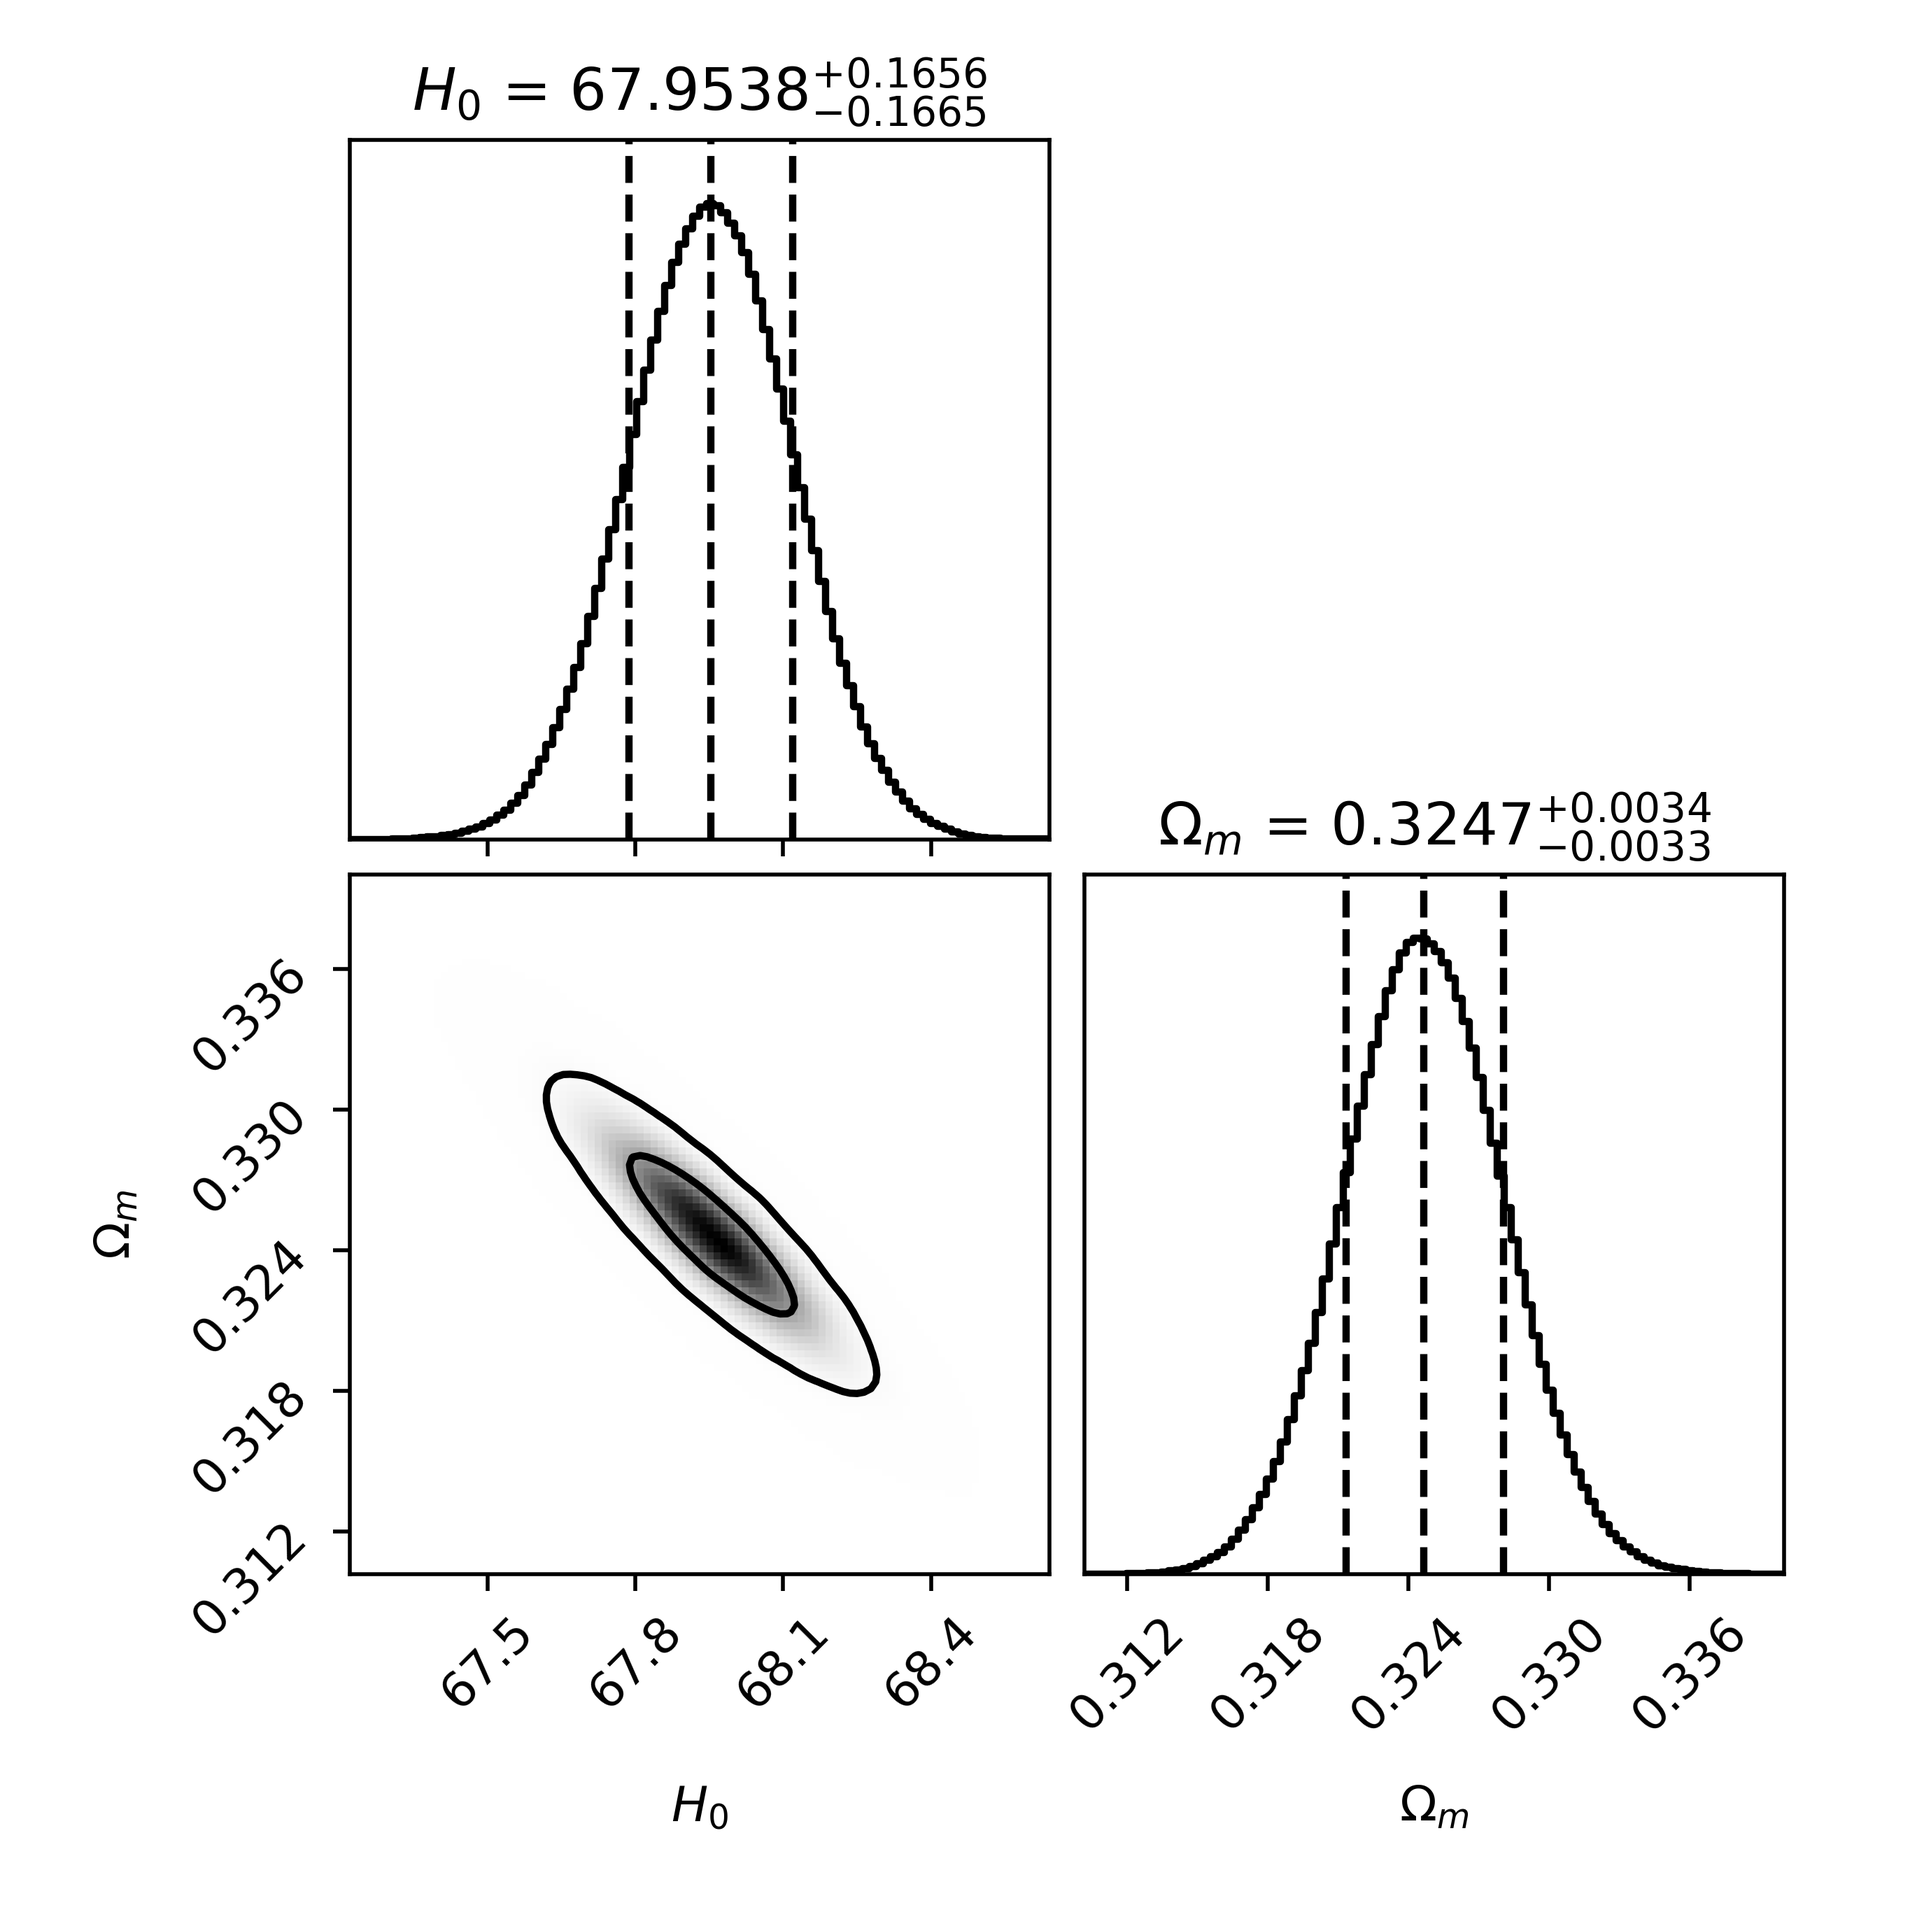
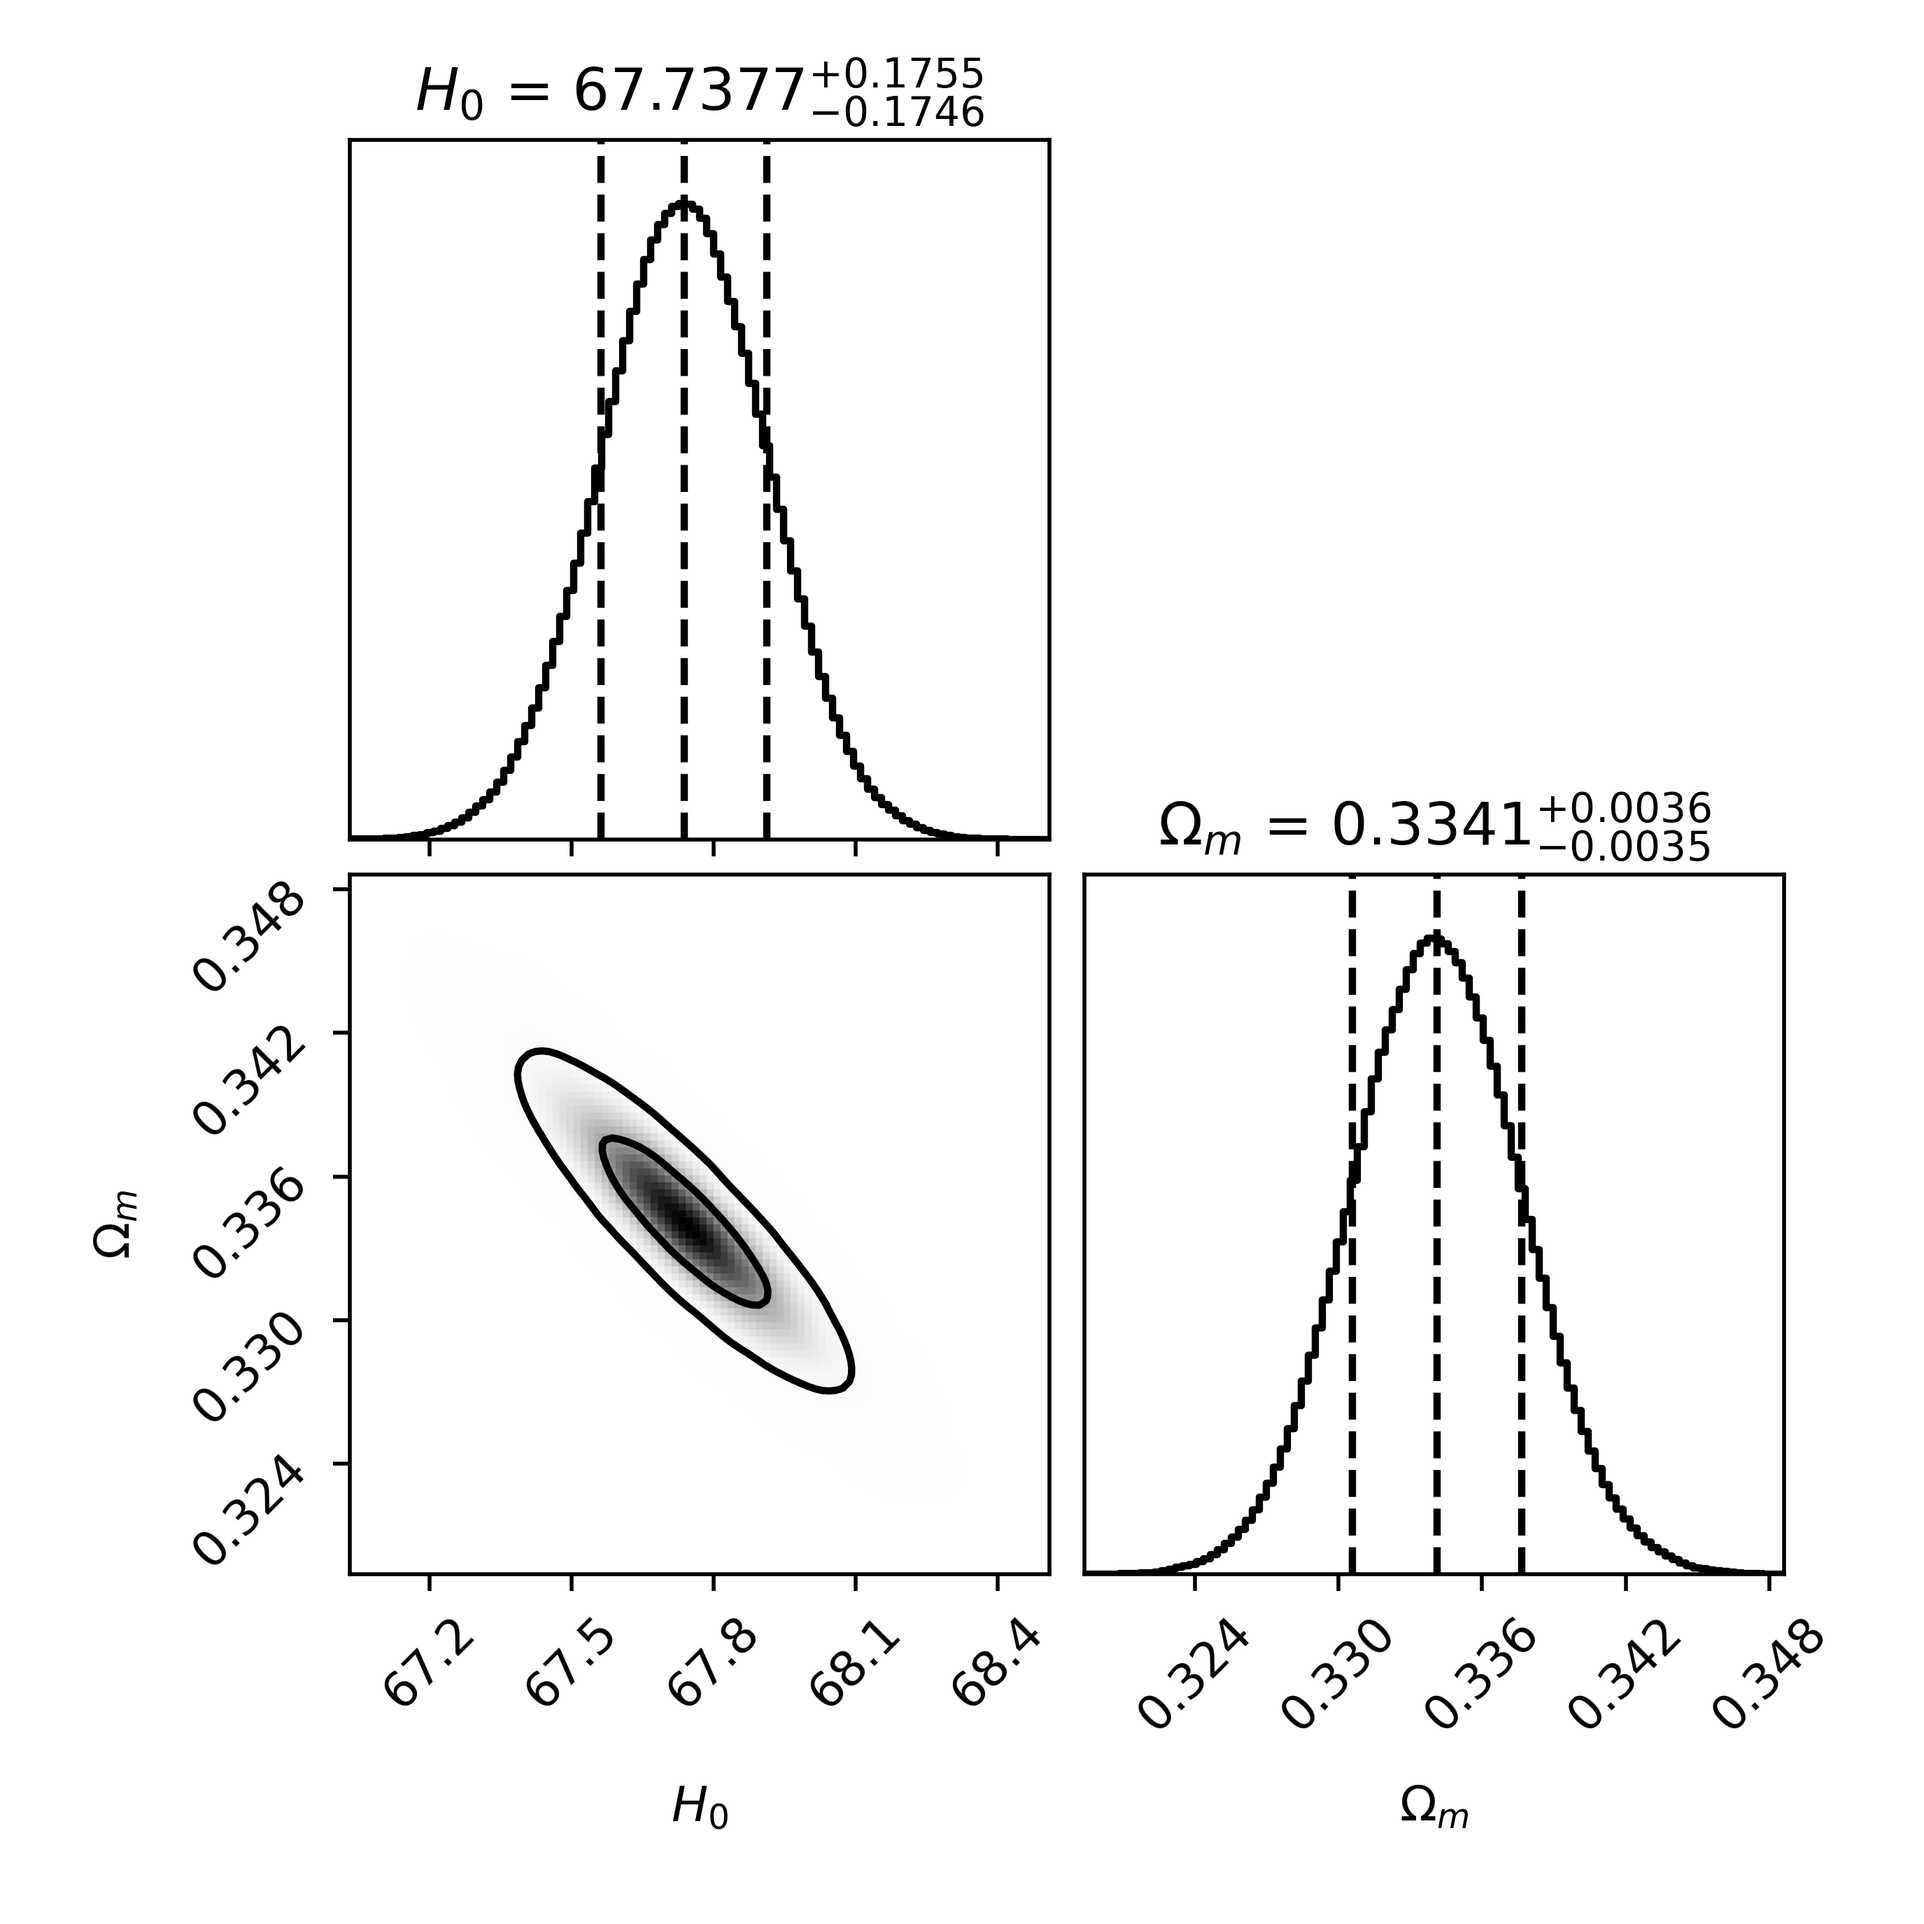
cc spline

diff --git a/cosmic_chronometers/cc_spline.py b/cosmic_chronometers/cc_spline.py
@@ -7,13 +7,14 @@ from multiprocessing import Pool
 from y2005cc.data import get_data
 
 
-legend, z_values, H_values, dH_values = get_data()
+legend, z_values, H_values, cov_matrix = get_data()
+dH_values = np.sqrt(np.diag(cov_matrix)) # simple diagonal covariance matrix
 
 # Fitting models directly to the CC data (presents high correlation between H0 and w0)
 best_fit = {
-    "LCDM": [67.97, 0.3229],
-    "wCDM": [71.40, 0.3050, -1.329],
-    "wxCDM": [71.68, 0.3056, -1.371]
+    "LCDM": [66.71, 0.334],
+    "wCDM": [70.80, 0.307, -1.489],
+    "wxCDM": [71.15, 0.306, -1.559]
 }
 
 def H_lcdm_z(z, params):
@@ -87,8 +88,8 @@ def main():
     H_16, H_50, H_84 = np.percentile(H_fits, [15.9, 50, 84.1], axis=0)
     upper = H_84[0] - H_50[0]
     lower = H_50[0] - H_16[0]
-    print(f"Spline H0: {H_50[0]:.2f} +{upper:.2f} - {lower:.2f} km/s/Mpc")
-    # Spline H0: 67.89 +3.51 - 3.60 km/s/Mpc
+    print(f"Spline H0: {H_50[0]:.1f} +{upper:.1f} - {lower:.1f} km/s/Mpc")
+    # Spline H0: 67.10 +3.67 - 3.77 km/s/Mpc
 
     model_name = 'wxCDM'
     H_z = H_wxcdm_z
@@ -124,7 +125,7 @@ def main():
     ] = np.percentile(samples, [15.9, 50, 84.1], axis=0).T
 
     best_fit_params = [H0_50, omega_50, w0_50]
-    print("chi-squared:", chi_squared(best_fit_params, H_z, z_grid, H_50, std))
+    print(f"chi-squared: {chi_squared(best_fit_params, H_z, z_grid, H_50, std):.2f}")
     print(f"H0: {H0_50:.2f} +{(H0_84 - H0_50):.2f} -{(H0_50 - H0_16):.2f}")
     print(f"Ωm: {omega_50:.4f} +{(omega_84 - omega_50):.4f} -{(omega_50 - omega_16):.4f}")
     print(f"w0: {w0_50:.4f} +{(w0_84 - w0_50):.4f} -{(w0_50 - w0_16):.4f}")

diff --git a/y2005cc/data.py b/y2005cc/data.py
@@ -29,13 +29,15 @@ slib_intp = np.interp(z, zmod, slib)/100
 sps_intp = np.interp(z, zmod, sps)/100
 spsooo_intp = np.interp(z, zmod, spsooo)/100
 
-cov_mat_imf = np.zeros((len(z), len(z)), dtype='float64')
-cov_mat_slib = np.zeros((len(z), len(z)), dtype='float64')
-cov_mat_sps = np.zeros((len(z), len(z)), dtype='float64')
-cov_mat_spsooo = np.zeros((len(z), len(z)), dtype='float64')
+N = len(z)
 
-for i in range(len(z)):
-	for j in range(len(z)):
+cov_mat_imf = np.zeros((N, N), dtype='float64')
+cov_mat_slib = np.zeros((N, N), dtype='float64')
+cov_mat_sps = np.zeros((N, N), dtype='float64')
+cov_mat_spsooo = np.zeros((N, N), dtype='float64')
+
+for i in range(N):
+	for j in range(N):
 		cov_mat_imf[i,j] = Hz[i] * imf_intp[i] * Hz[j] * imf_intp[j]
 		cov_mat_slib[i,j] = Hz[i] * slib_intp[i] * Hz[j] * slib_intp[j]
 		cov_mat_sps[i,j] = Hz[i] * sps_intp[i] * Hz[j] * sps_intp[j]
@@ -45,7 +47,7 @@ cov_matrix = cov_mat_spsooo + cov_mat_imf + cov_mat_diag
 
 def get_data():
     return (
-        f"Cosmic Chronometers ({data.shape[0]} data points)",
+        f"Cosmic Chronometers ({N} data points)",
         z,
 		Hz,
         cov_matrix,

diff --git a/cosmic_chronometers/cc_gp.py b/cosmic_chronometers/cc_gp.py
@@ -4,7 +4,8 @@ from sklearn.gaussian_process import GaussianProcessRegressor
 from sklearn.gaussian_process.kernels import RBF
 from y2005cc.data import get_data
 
-legend, z_values, H_values, dH_values = get_data()
+legend, z_values, H_values, cov_matrix = get_data()
+dH_values = np.sqrt(np.diag(cov_matrix))  # simple diagonal covariance matrix
 z_values = z_values.reshape(-1, 1)
 
 z_pred = np.linspace(0, z_values.max(), 500).reshape(-1, 1)
